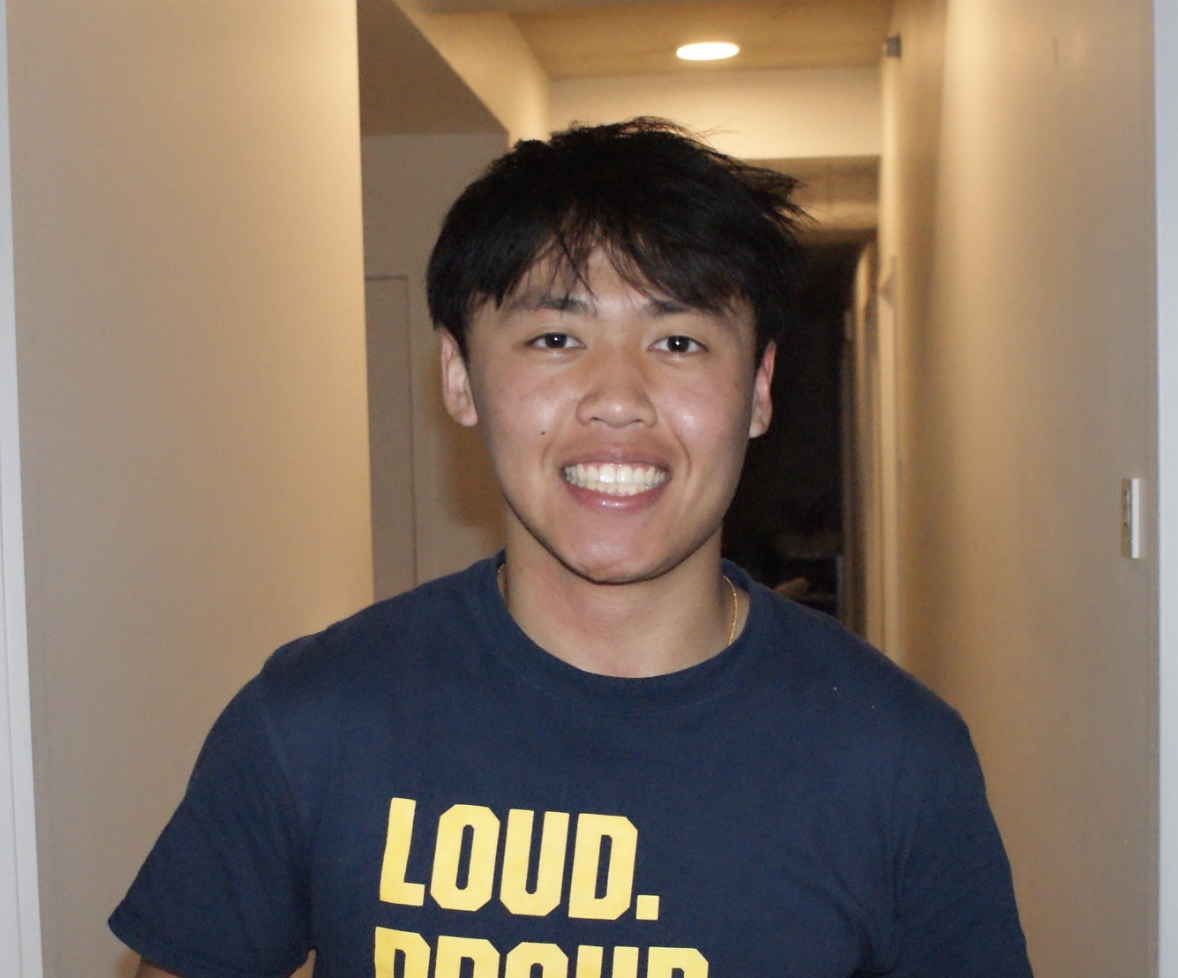
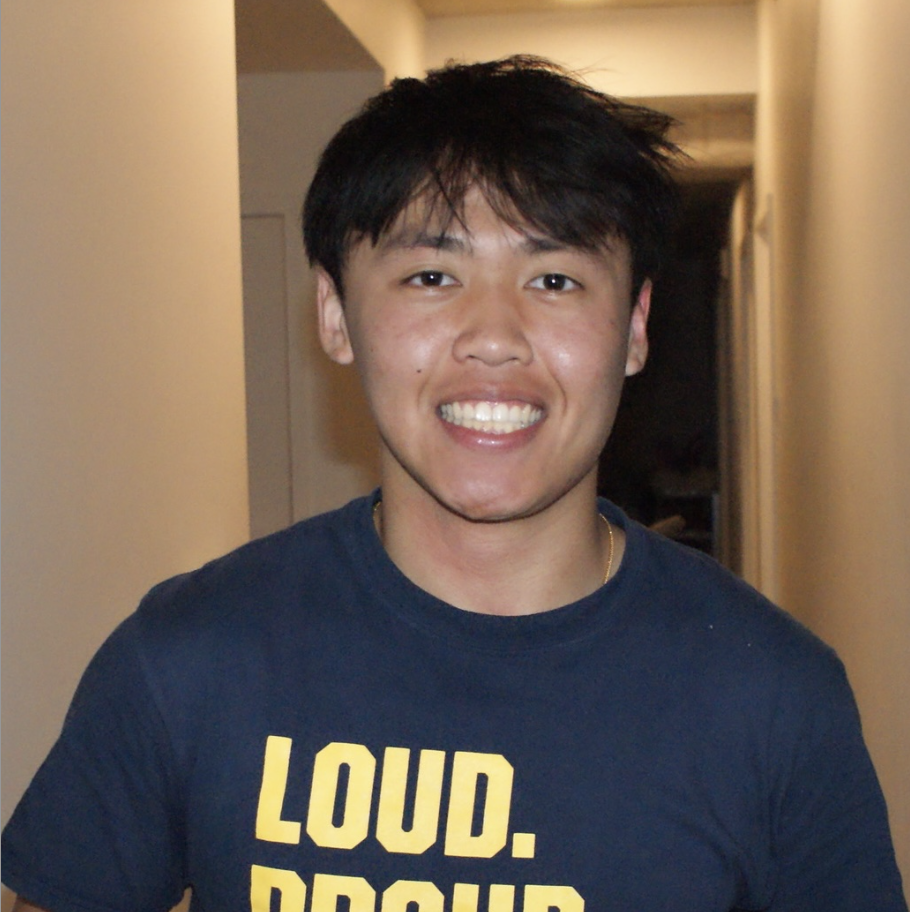
Updated council profiles

diff --git a/src/Routes/members.jsx b/src/Routes/members.jsx
@@ -24,8 +24,8 @@ export default [
       "TBD"
     ],
     isExec: true,
-    pic: "pics/22-23/tbd.jpeg",
-    email: "sol009@ucsd.edu"
+    pic: "pics/22-23/tbd.png",
+    email: ""
   },
   {
     name: "Harini Gurusankar",
@@ -39,7 +39,7 @@ export default [
       "Fun Fact: I can speak 5 languages."
     ],
     isExec: true,
-    pic: "pics/22-23/Harini.JPG",
+    pic: "pics/22-23/Harini.PNG",
     email: "hgurusan@ucsd.edu"
   },
   {
@@ -53,7 +53,7 @@ export default [
       "Likes reading light novels, watching KDramas, talking to new people, watching anime, moderating Facebook and discord groups/servers",
       "Fun Fact: I've been preparing for this my whole life but I cannot remember. Let's go with the fact that my right thumb has a missing crease. Oh, I also hold a black belt in Karate. I'm the RoboCup Soccer Co-Chair if any of you want to join. I WANT TO BUILD BAYMAX BECAUSE HUGS CAN SAVE THE WORLD"
     ],
-    pic: "pics/22-23/Zarif.JPG",
+    pic: "pics/22-23/Zarif.png",
     isFirstRow: true,
     email: "mmzarif@ucsd.edu"
   },
@@ -67,7 +67,7 @@ export default [
     lines: [
       "N/A"
     ],
-    pic: "pics/22-23/tbd.jpeg",
+    pic: "pics/22-23/tbd.png",
     isFirstRow: true,
     email: "N/A"
   },
@@ -82,7 +82,7 @@ export default [
       'Fun Fact: There has not been one single school/institution that they\'ve stayed for more than three years yet.'
     ],
     pic: "pics/21-22/Ruilin.JPG",
-    isSecondRow: true,
+    isFirstRow: true,
     email: "ruhu@ucsd.edu"
   },
   {
@@ -95,7 +95,7 @@ export default [
       "Enjoys exercising, reading, and exploring the outdoors.",
       'Fun Fact: I look better in person.'
     ],
-    pic: "pics/22-23/Brandon.JPG",
+    pic: "pics/22-23/Brandon.png",
     isFirstRow: true,
     email: "bszeto@ucsd.edu"
   },
@@ -110,7 +110,7 @@ export default [
       "Likes electronic music.",
       'Fun Fact: I took 8 classes in the summer of my freshman year.'
     ],
-    pic: "pics/21-22/Haochen.JPG",
+    pic: "pics/22-23/Haochen.png",
     isFirstRow: true,
     email: "haw057@ucsd.edu"
   },
@@ -140,7 +140,7 @@ export default [
       "Enjoys surfing, rock Climbing, and food!.",
       'Fun Fact: I climbed a glacier.'
     ],
-    pic: "pics/22-23/Yann.JPG",
+    pic: "pics/22-23/Yann.png",
     isSecondRow: true,
     email: "ybaglinbunod@ucsd.edu"
   },
@@ -155,7 +155,7 @@ export default [
       "Enjoys playing guitar, table tennis, and swimming. " ,
       'Fun Fact: I can solve a rubiks cube blindfolded.'
     ],
-    pic: "pics/22-23/Rana.JPG",
+    pic: "pics/22-23/Rana.png",
     isSecondRow: true,
     email: "ras010@ucsd.edu"
   },
@@ -173,5 +173,48 @@ export default [
     pic: "pics/22-23/Angela.png",
     isSecondRow: true,
     email: "cjt002@ucsd.edu"
+  },
+  {
+    name: "Basil Thaddeus",
+    position: "Webmaster",
+    major: "Cognitive Science w/ spec in Machine Learning and Neural Computation",
+    minor: null,
+    depth: null,
+    lines: [
+      "Enjoys hanging out with friends, playing video games, and coding (lame i know).",
+      'Fun Fact: TBD :D'
+    ],
+    pic: "pics/22-23/Basil.png",
+    isSecondRow: true,
+    email: "brobertthaddeus@ucsd.edu"
+  },
+  {
+    name: "Joshua Choi",
+    position: "Mentorship Social Chair",
+    major: "Electrical Engineering",
+    minor: null,
+    depth: null,
+    lines: [
+      "Part of IEEE",
+      "Enjoys playing basketball, working out, and watching TV.",
+      'Fun Fact: I am Korean but I do not like kimchi.'
+    ],
+    pic: "pics/22-23/Joshua.png",
+    isThirdRow: true,
+    email: "jmc008@ucsd.edu"
+  },
+  {
+    name: "Yong Quan Neo",
+    position: "Mentorship Social Chair",
+    major: "Electrical Engineering",
+    minor: null,
+    depth: "Computer System Design",
+    lines: [
+      "Enjoys playing badminton.",
+      'Fun Fact: I am from Malaysia 🇲🇾.'
+    ],
+    pic: "pics/22-23/tbd.png",
+    isThirdRow: true,
+    email: "yneo@ucsd.edu"
   }
 ];

diff --git a/src/Routes/Home.jsx b/src/Routes/Home.jsx
@@ -100,7 +100,7 @@ export default class Home extends React.Component {
                     <Grid.Row>
                       <Grid.Column>
                         <Image
-                          src="pics/21-22/Group1.JPG"
+                          src="pics/22-23/all_officers.png"
                           centered
                           size="massive"
                         />
@@ -108,10 +108,8 @@ export default class Home extends React.Component {
                     </Grid.Row>
                   </Grid>
                 </div>
-                <div
-                  class="ui divider"
-                  style={{ marginTop: ".25rem", marginBottom: ".5rem" }}
-                ></div>
+                <br />
+                
                 <div class="Text">
                   The ECE Undergraduate Student Council (ECE USC) is the voice
                   of Electrical and Computer Engineering (ECE) students at UC

diff --git a/src/Routes/Mentorship.jsx b/src/Routes/Mentorship.jsx
@@ -56,7 +56,7 @@ export default class Mentorship extends React.Component {
               <PhotoAlign />
             </div>
           }
-          contacts={[members[6]]}
+          contacts={[members[4], members[13]]}
         />
       </div>
     );

diff --git a/src/Routes/Professional.jsx b/src/Routes/Professional.jsx
@@ -128,7 +128,7 @@ export default class Professional extends React.Component {
               <Slides />
             </div>
           }
-          contacts={[members[8]]}
+          contacts={[members[6], members[7]]}
         />
       </div>
     );

diff --git a/src/Routes/Academic.jsx b/src/Routes/Academic.jsx
@@ -101,7 +101,7 @@ export default class TownHalls extends React.Component {
               <Slides />
             </div>
           }
-          contacts={[members[10]]}
+          contacts={[members[9]]}
         />
       </div>
     );

diff --git a/src/Routes/Social.jsx b/src/Routes/Social.jsx
@@ -45,7 +45,7 @@ export default class Social extends React.Component {
               <PhotoAlign />
             </div>
           }
-          contacts={[members[9]]}
+          contacts={[members[8]]}
         />
       </div>
     );

diff --git a/src/Routes/Technical.jsx b/src/Routes/Technical.jsx
@@ -30,7 +30,7 @@ export default class Technical extends React.Component {
             </div>
           }
           
-          contacts={[members[12]]}
+          contacts={[members[14], members[10]]}
         />
       </div>
     );

diff --git a/src/Routes/Wece.jsx b/src/Routes/Wece.jsx
@@ -42,7 +42,7 @@ export default class Wece extends React.Component {
             </div>
           }
           
-          contacts={[members[7]]}
+          contacts={[members[5]]}
         />
       </div>
     );
